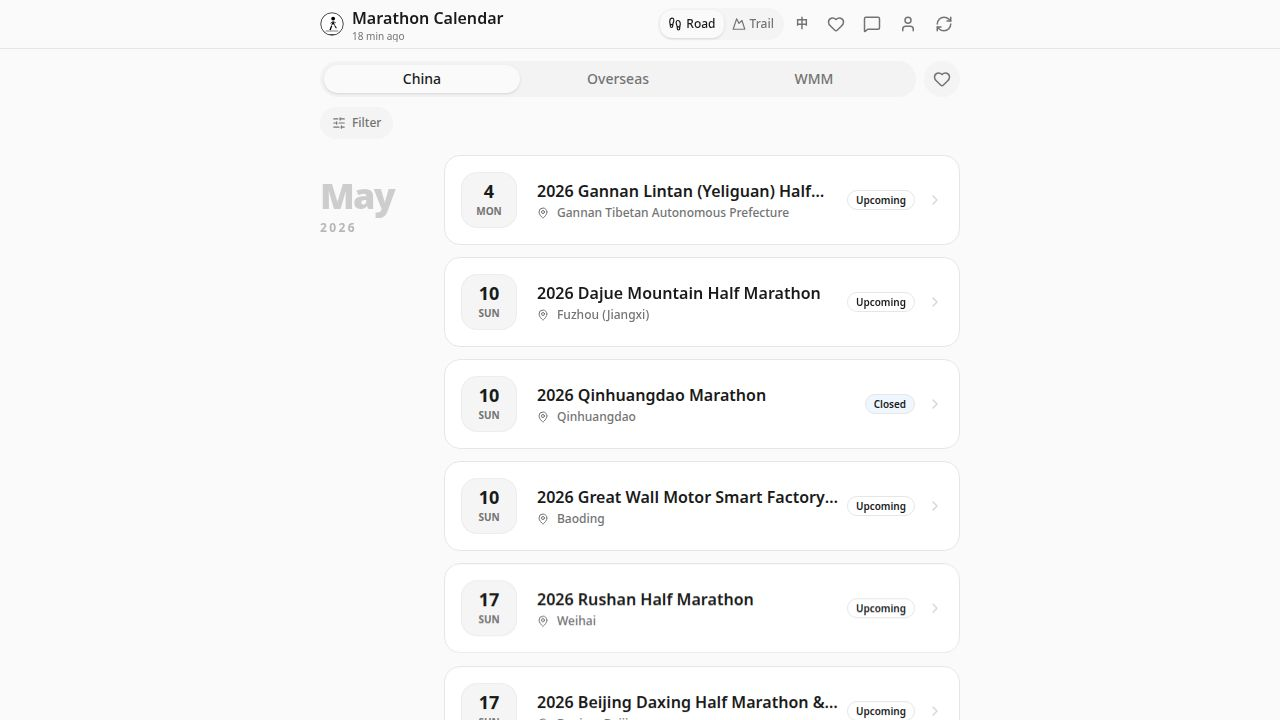
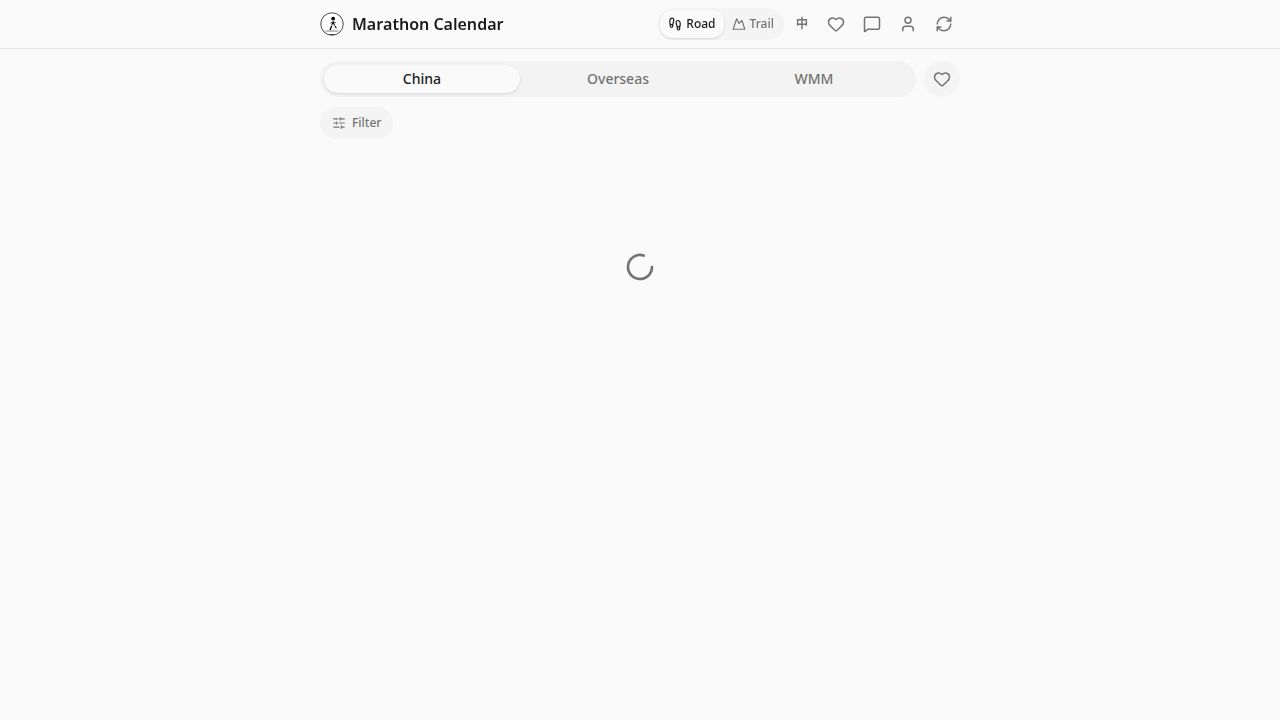
Improve event status accuracy and visual contrast for trail races
Refactor status calculation logic, update UI color palettes, and introduce a script to refresh event statuses.

Replit-Commit-Author: Agent
Replit-Commit-Session-Id: d9e2c0ea-cb04-4da3-b72e-67a4c88417d4
Replit-Commit-Checkpoint-Type: full_checkpoint
Replit-Commit-Event-Id: d26e606e-fc0d-486f-af7e-c5ff783ac16a
Replit-Commit-Screenshot-Url: https://storage.googleapis.com/screenshot-production-us-central1/5369cdcb-b7cb-4cc7-83a1-a04488b2fc0a/d9e2c0ea-cb04-4da3-b72e-67a4c88417d4/yL9ZGnf
Replit-Helium-Checkpoint-Created: true

diff --git a/script/refresh-edition-statuses.ts b/script/refresh-edition-statuses.ts
@@ -1,0 +1,99 @@
+/**
+ * Refresh `marathon_editions.status` for all published rows by re-deriving
+ * via the shared resolver. Handles:
+ *   - upcoming → racing on race day
+ *   - upcoming → ended after race day
+ *   - keeps explicit "open"/"closed"/"cancelled" values intact when reg dates
+ *     don't override them via computeEditionStatus
+ *
+ * Usage:
+ *   tsx script/refresh-edition-statuses.ts                 # dev DB ($DATABASE_URL)
+ *   tsx script/refresh-edition-statuses.ts --prod          # prod DB ($PROD_DATABASE_URL)
+ *   tsx script/refresh-edition-statuses.ts --dry           # preview only
+ */
+import { Pool } from "pg";
+import { computeEditionStatus, mapLegacyStatus, isEditionStatus } from "../shared/status.js";
+
+// Re-derive a status, but unlike resolveEditionStatus we do *not* short-circuit
+// on the stored value — that's the whole point of a refresh. Priority:
+//   1. cancelled wins (from stored or legacy)
+//   2. date-derived terminal states (ended/racing) trump everything else
+//   3. date-derived open/closed (only when reg dates exist)
+//   4. otherwise prefer stored explicit status, then legacy mapping, then upcoming
+function recomputeStatus(row: {
+  status: string | null;
+  registration_status: string | null;
+  race_date: string | null;
+  registration_open_date: string | null;
+  registration_close_date: string | null;
+}): string {
+  const stored = isEditionStatus(row.status) ? row.status : null;
+  const legacy = mapLegacyStatus(row.registration_status);
+  if (stored === "cancelled" || legacy === "cancelled") return "cancelled";
+  const computed = computeEditionStatus({
+    raceDate: row.race_date,
+    registrationStart: row.registration_open_date,
+    registrationEnd: row.registration_close_date,
+  });
+  if (computed === "ended" || computed === "racing") return computed;
+  if (row.registration_open_date || row.registration_close_date) {
+    if (computed === "open" || computed === "closed") return computed;
+  }
+  if (stored) return stored;
+  if (legacy) return legacy;
+  return computed;
+}
+
+const PROD = process.argv.includes("--prod");
+const DRY = process.argv.includes("--dry");
+const url = PROD ? process.env.PROD_DATABASE_URL : process.env.DATABASE_URL;
+if (!url) {
+  console.error(`Missing ${PROD ? "PROD_DATABASE_URL" : "DATABASE_URL"}`);
+  process.exit(1);
+}
+const pool = new Pool({ connectionString: url });
+
+async function main() {
+  const { rows } = await pool.query<{
+    id: string;
+    status: string | null;
+    registration_status: string | null;
+    race_date: string | null;
+    registration_open_date: string | null;
+    registration_close_date: string | null;
+  }>(
+    `SELECT e.id, e.status, e.registration_status, e.race_date,
+            e.registration_open_date, e.registration_close_date
+     FROM marathon_editions e
+     WHERE e.publish_status='published'`,
+  );
+
+  const changes = new Map<string, number>();
+  let updated = 0;
+
+  for (const r of rows) {
+    const newStatus = recomputeStatus(r);
+    if (newStatus !== r.status) {
+      const key = `${r.status ?? "null"} → ${newStatus}`;
+      changes.set(key, (changes.get(key) ?? 0) + 1);
+      if (!DRY) {
+        await pool.query(
+          `UPDATE marathon_editions SET status=$1, updated_at=now() WHERE id=$2`,
+          [newStatus, r.id],
+        );
+      }
+      updated++;
+    }
+  }
+
+  console.log(`scanned=${rows.length} ${DRY ? "would-update" : "updated"}=${updated}`);
+  for (const [k, v] of [...changes.entries()].sort((a, b) => b[1] - a[1])) {
+    console.log(`  ${k}: ${v}`);
+  }
+  await pool.end();
+}
+
+main().catch((e) => {
+  console.error(e);
+  process.exit(1);
+});

diff --git a/shared/status.ts b/shared/status.ts
@@ -24,14 +24,16 @@ export function isEditionStatus(v: unknown): v is EditionStatus {
   return typeof v === "string" && (STATUS_VALUES as readonly string[]).includes(v);
 }
 
-// nowrun-style colorways (Tailwind v4 utility classes)
+// nowrun-style colorways (Tailwind v4 utility classes).
+// Light mode uses -100 backgrounds (not -50) so the badge stands out from the
+// white card background. Borders use -300/400 for stronger edges.
 export const STATUS_COLOR_CLASSES: Record<EditionStatus, string> = {
-  upcoming: "text-amber-600 border-amber-300 bg-amber-50 dark:text-amber-400 dark:border-amber-800/60 dark:bg-amber-900/20",
-  open: "text-emerald-700 border-emerald-300 bg-emerald-50 dark:text-emerald-300 dark:border-emerald-800/60 dark:bg-emerald-900/20",
-  closed: "text-blue-600 border-blue-300 bg-blue-50 dark:text-blue-300 dark:border-blue-800/60 dark:bg-blue-900/20",
-  racing: "text-purple-600 border-purple-300 bg-purple-50 dark:text-purple-300 dark:border-purple-800/60 dark:bg-purple-900/20",
-  ended: "text-gray-500 border-gray-300 bg-gray-100 dark:text-gray-400 dark:border-gray-700 dark:bg-gray-800/40",
-  cancelled: "text-red-600 border-red-300 bg-red-50 dark:text-red-300 dark:border-red-800/60 dark:bg-red-900/20",
+  upcoming: "text-amber-700 border-amber-400 bg-amber-100 dark:text-amber-300 dark:border-amber-700/70 dark:bg-amber-900/30",
+  open: "text-emerald-700 border-emerald-400 bg-emerald-100 dark:text-emerald-300 dark:border-emerald-700/70 dark:bg-emerald-900/30",
+  closed: "text-blue-700 border-blue-400 bg-blue-100 dark:text-blue-300 dark:border-blue-700/70 dark:bg-blue-900/30",
+  racing: "text-purple-700 border-purple-400 bg-purple-100 dark:text-purple-300 dark:border-purple-700/70 dark:bg-purple-900/30",
+  ended: "text-gray-600 border-gray-400 bg-gray-200 dark:text-gray-400 dark:border-gray-600 dark:bg-gray-800/60",
+  cancelled: "text-red-700 border-red-400 bg-red-100 dark:text-red-300 dark:border-red-700/70 dark:bg-red-900/30",
 };
 
 export const STATUS_ICON: Record<EditionStatus, string> = {

diff --git a/script/import-itra-trail.ts b/script/import-itra-trail.ts
@@ -297,10 +297,12 @@ async function ensureSourceId(): Promise<string> {
   return inserted.rows[0].id;
 }
 
+// Derive status using shared logic so race-day → "racing", past → "ended",
+// future → "upcoming". ITRA exposes no registration window so we never compute
+// "open"/"closed" — that's expected and matches our taxonomy.
+import { computeEditionStatus } from "../shared/status.js";
 function computeStatus(raceDate: string | null): string {
-  if (!raceDate) return "upcoming";
-  const today = new Date().toISOString().slice(0, 10);
-  return raceDate >= today ? "upcoming" : "ended";
+  return computeEditionStatus({ raceDate });
 }
 
 async function upsertEvent(

diff --git a/script/import-zuicool-trail.ts b/script/import-zuicool-trail.ts
@@ -464,10 +464,9 @@ async function upsertEvent(ev: ParsedEvent, sourceId: string): Promise<"inserted
   return action;
 }
 
+import { computeEditionStatus } from "../shared/status.js";
 function computeStatus(raceDate: string | null): string {
-  if (!raceDate) return "upcoming";
-  const today = new Date().toISOString().slice(0, 10);
-  return raceDate >= today ? "upcoming" : "ended";
+  return computeEditionStatus({ raceDate });
 }
 
 async function main() {

diff --git a/replit.md b/replit.md
@@ -211,6 +211,16 @@ raceroster.com 事件页 JSON-LD 不暴露官网，需从描述块 `event-descri
 
 **完整使用文档** → `.local/skills/raceroster/SKILL.md`
 
+### 2026-05-03 越野赛事数据质量审查（链接 / 状态 / 配色）
+
+**链接核查（结论：所有 1213 条越野赛事都有可点击外链）**：itra 886 + zuicool 997 + raceroster 323 + 杂项 4 = 1213 条全部填了 `marathons.website_url`（HEAD 抽样均 200）。`marathon_editions.registration_url` 是 0 — 三个越野源都不暴露报名页直链，前端 EventDetails / MarathonTable / MarathonDetail 都已在没有 reg url 时回退到 website_url，无需改。
+
+**状态来源（结论：越野状态只能从 race_date 推，因为没有报名期）**：itra/zuicool/raceroster 三个 importer 抓不到 registration_open/close_date，所以 `computeStatus(raceDate)` 只输出 `upcoming`/`ended`，永远不会出现 `open`/`closed`。这是数据本身的限制，不是 bug。马拉松类（nowrun + 手工）有报名期，所以保留 419 upcoming / 11 open / 8 closed / 8 racing / 118 ended 的全状态分布。
+
+**状态刷新脚本** `script/refresh-edition-statuses.ts`（dev + prod 已跑）：扫所有 published edition，调用 `recomputeStatus()`（私有版 `resolveEditionStatus`，区别是不会因为 stored=upcoming 就短路返回，让 race-day 能正确翻成 racing、过去日期翻成 ended）。本次跑出 dev=45 / prod=44 处变更（绝大多数 upcoming → racing 36 个 / racing → ended 8 个）。建议每天 cron 一次，或在每次 importer 跑完后顺带跑。`import-itra-trail.ts` / `import-zuicool-trail.ts` 的 `computeStatus` 也改成调 shared `computeEditionStatus`，新导入的赛事就能正确处理 race day。
+
+**配色冲突（白底白字感）**：`STATUS_COLOR_CLASSES` 之前用 `bg-amber-50/blue-50/...` 这些 50 色阶，hex 几乎是纯白（amber-50=#fffbeb），落在 bg-card=#ffffff 的卡片上几乎看不到边界，给人"白底白字"的视错觉。已统一上调到 `bg-{color}-100` + `border-{color}-400` + `text-{color}-700`（暗色模式同步加深到 -700/-30），徽章在白卡片上有明显色块边界。
+
 ### 2026-05-03 首页加国家筛选
 
 海外越野上千条事件后，月份/状态筛选不够用。新增 `/api/marathons/countries?region=&kind=` 端点（按 region+kind 分组返回 `[{country,count}]`，按 count desc 排序），`apiClient.getMarathonCountries()` 包装。`Home.tsx` 加 `countryFilter` 状态 + Select（仅在 `region!==China && countries.length>1` 时显示，避免大陆 1 个国家时占位），切换 region/kind 时自动重置为 "all"。`MarathonTable` props 与 `useMarathons` 透传 `country`。`filters.country` / `filters.allCountries` 已加入 zh/en i18n。后端 `/api/marathons` 已支持 country=eq 早就具备，无需改动。